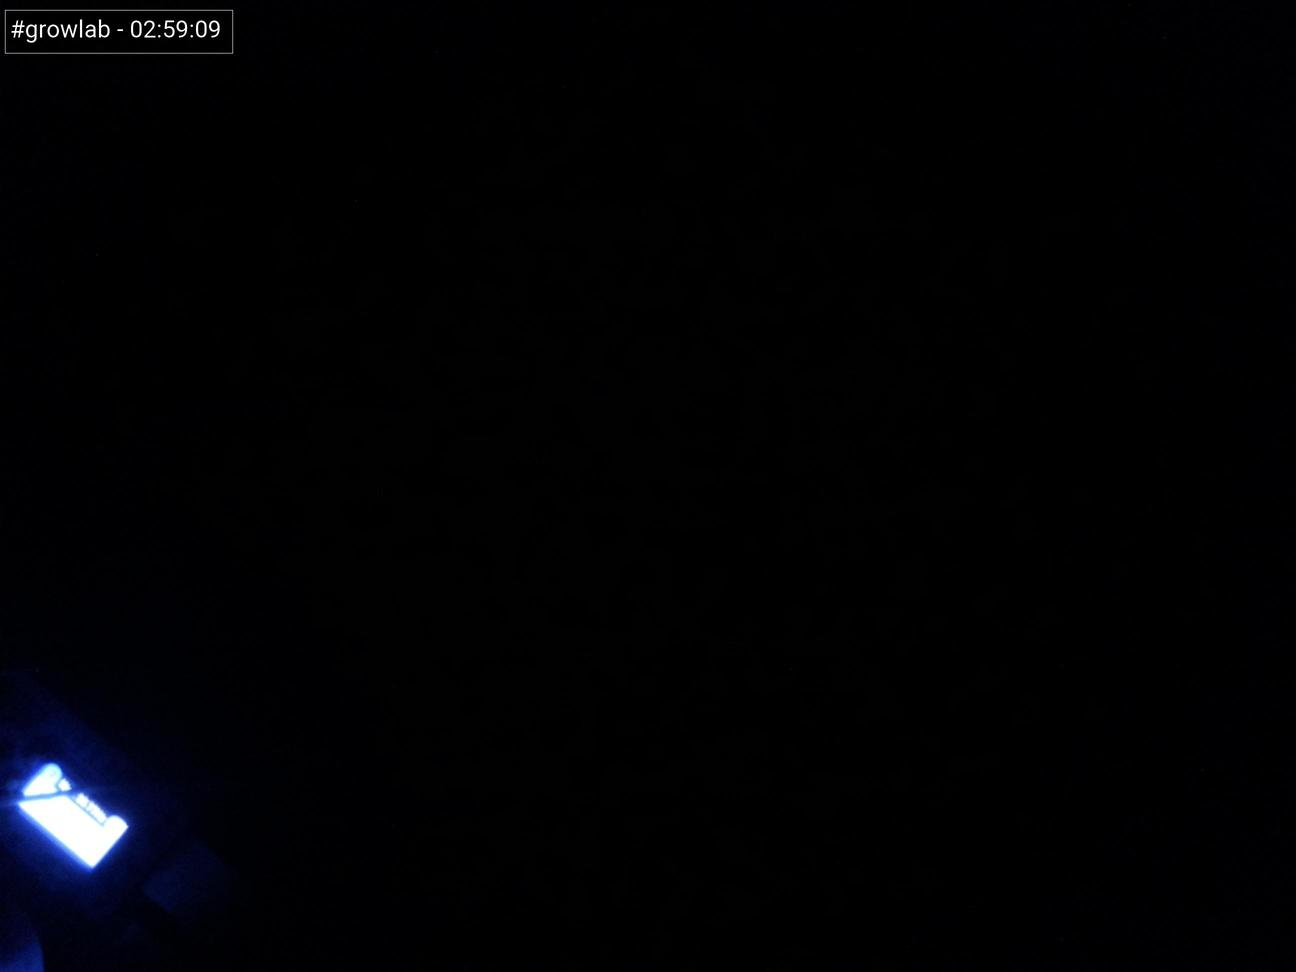
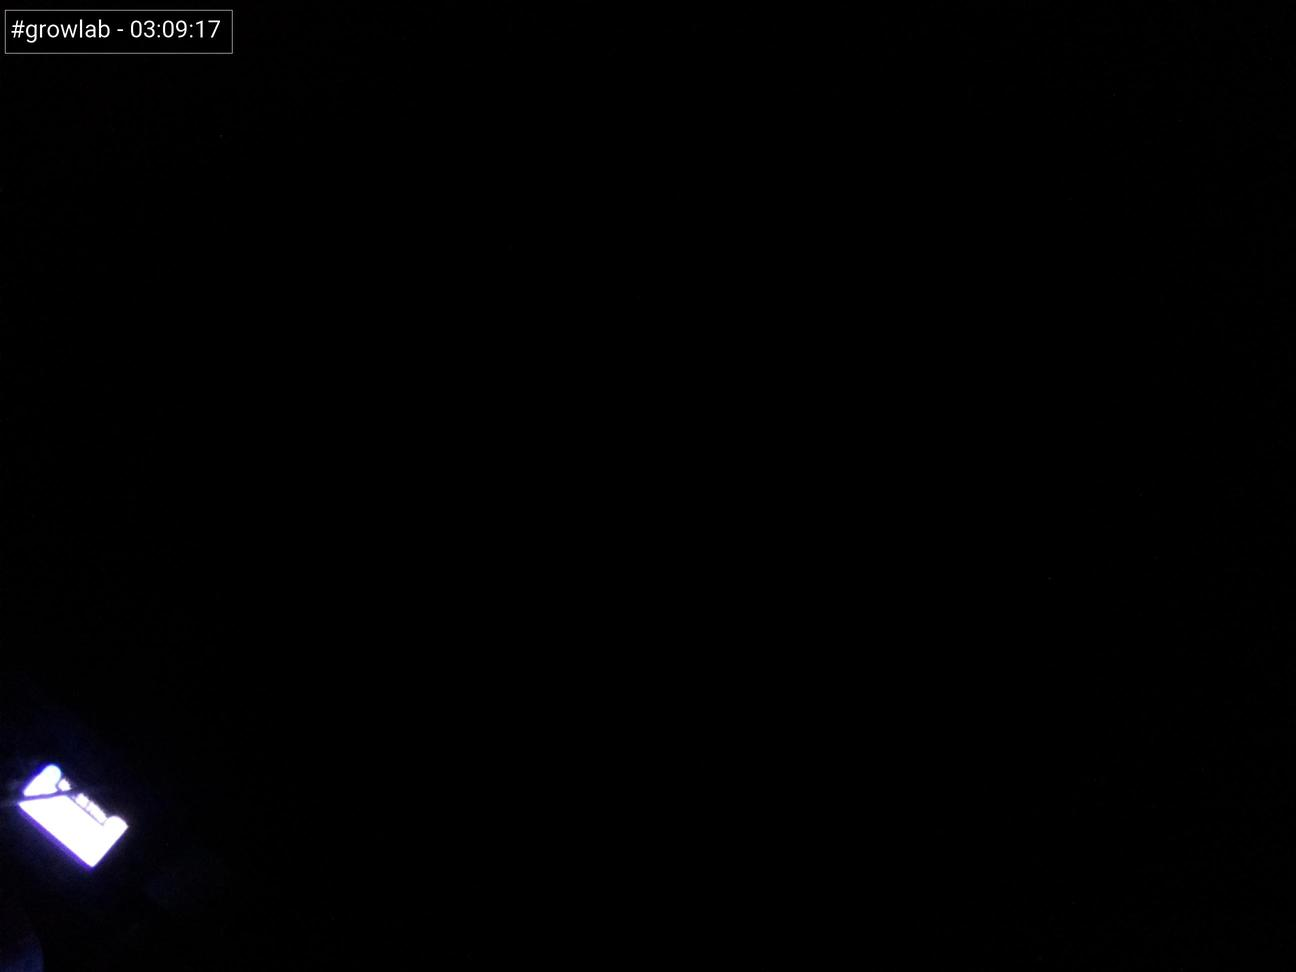
Update images at Fri 24 Dec 03:09:20 GMT 2021

Changed region(s): [[0.0, 0.7099, 0.1543, 1.0], [0.1235, 0.0, 0.1852, 0.0617]]

diff --git a/docs/index.html b/docs/index.html
@@ -47,7 +47,7 @@
                         <tbody>
                             <tr>
                                 <td>Time</td>
-                                <td>02:59:09</td>
+                                <td>03:09:17</td>
                             </tr>
                             <tr>
                                 <td>Temperature</td>
@@ -67,7 +67,7 @@
 
                 <h5>Latest image</h5>
                 <div style="width: 85%;">
-                            <img class="figure-img img-fluid rounded" src="./preview.jpg?uid=1640314752.3015692">
+                            <img class="figure-img img-fluid rounded" src="./preview.jpg?uid=1640315360.0465746">
                 </div>
             </div>
         </div>
